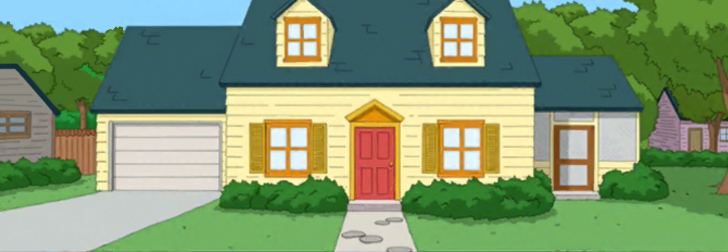
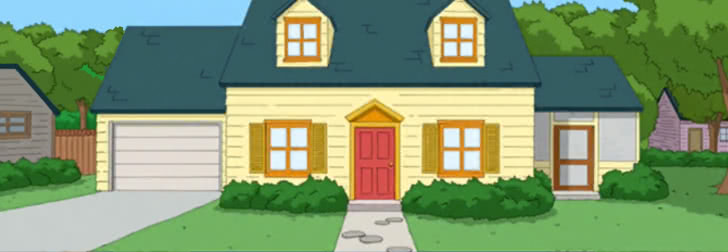
Optimized jpgs, jshint fixies

diff --git a/js/objects/game-ui.js b/js/objects/game-ui.js
@@ -1,4 +1,6 @@
 /*jshint -W041 */
+/*jshint -W083 */
+
 import LU from 'display/layout-utils';
 
 import Globals from 'kernel/globals';
@@ -11,9 +13,7 @@ export default class GameUI {
     this._recipesInfo = params.recipesInfo;
     this._gUI = this._game.add.group();
     this._view.add(this._gUI);
-    this.maxRecipes
     this._scoreTmp = 0;
-
     this.totalRecipesCount = 0;
     this.currentRecipesCount = 0;
 
@@ -78,7 +78,7 @@ export default class GameUI {
     this.uiPanel = imageLoader.sprite(0, 0, 'topBackground');
     // let scaleFactor =  LU.FULL_GAME_WIDTH / this.uiPanel.width;
     this.uiPanel.nativeWidth = this.uiPanel.width;
-    this.uiPanel.width = LU.FULL_GAME_WIDTH
+    this.uiPanel.width = LU.FULL_GAME_WIDTH;
     this._gUI.add(this.uiPanel);
 
 
@@ -108,14 +108,14 @@ export default class GameUI {
     }, 3500, Phaser.Easing.Linear.None, true, 500, -1, false);
 
     this.counter = imageLoader.sprite(0, this.uiPanel.height, 'counter.png');
-    this.counter.height*=0.65
+    this.counter.height*=0.65;
     this.counter.x = LU.FULL_GAME_WIDTH*0.5 - this.counter.width*0.5;
     this._gUI.add(this.counter);
 
 
 
     this.stewie.drink = (glass)=> {
-      this.stewie.frameName = 'stewie_drink.png'
+      this.stewie.frameName = 'stewie_drink.png';
       this.stewie.addChild(glass);
       this._game.tweens.removeFrom(this.stewie);
       this._game.add.tween(this.stewie.scale).to({
@@ -127,7 +127,7 @@ export default class GameUI {
           //  y: this.stewie.y+50,
           alpha: [1, 1, 0],
         }, 1000, Phaser.Easing.Linear.None, true, 0, 0, false);
-      })
+      });
       glass.angle = 95;
       glass.scale.set(0.5);
       glass.y = -70;
@@ -135,7 +135,7 @@ export default class GameUI {
     };
 
     this.louis.drink = (glass)=> {
-      this.louis.frameName = 'lois_drink.png'
+      this.louis.frameName = 'lois_drink.png';
       this.louis.addChild(glass);
 
       this._game.tweens.removeFrom(this.louis);
@@ -148,7 +148,7 @@ export default class GameUI {
           //   y: this.stewie.y+50
           alpha: [1, 1, 0],
         }, 1000, Phaser.Easing.Linear.None, true, 0, 0, false);
-      })
+      });
       glass.angle = 100;
       glass.scale.set(0.7);
       glass.y = -175;
@@ -156,7 +156,7 @@ export default class GameUI {
     };
 
     this.peter.drink = (glass)=> {
-      this.peter.frameName = 'peter_drink.png'
+      this.peter.frameName = 'peter_drink.png';
       this.peter.addChild(glass);
 
       this._game.tweens.removeFrom(this.peter);
@@ -168,7 +168,7 @@ export default class GameUI {
           angle: 60,
           alpha: [1, 1, 0],
         }, 1000, Phaser.Easing.Linear.None, true, 0, 0, false);
-      })
+      });
       glass.angle = 95;
       glass.scale.set(0.8);
       glass.y = -240;
@@ -182,8 +182,8 @@ export default class GameUI {
     const rCountOffsetX = 27;
     const rCountOffsetY = 5;
 
-    let colours = ['#107fff', '#34a316', '#9a22d5', '#cd0110', '#ac6800', '#f64c01']
-    let heroesToDrink = [this.stewie, this.peter, this.louis]
+    let colours = ['#107fff', '#34a316', '#9a22d5', '#cd0110', '#ac6800', '#f64c01'];
+    let heroesToDrink = [this.stewie, this.peter, this.louis];
     for (let i = 0; i < this._recipesInfo.length; i++) {
       let img = imageLoader.sprite(xPos[i], topOffset, `chip_${this._recipesInfo[i].color}_0.png`);
       img.anchor.set(0.5);
@@ -430,7 +430,7 @@ export default class GameUI {
     let counter = imageLoader.sprite(0, uiPanel.height, 'counter.png');
     this._gUI.add(counter);
     this.stewie.drink = (glass)=> {
-      this.stewie.frameName = 'stewie_drink.png'
+      this.stewie.frameName = 'stewie_drink.png';
       this.stewie.addChild(glass);
       this._game.tweens.removeFrom(this.stewie);
       this._game.add.tween(this.stewie.scale).to({
@@ -442,7 +442,7 @@ export default class GameUI {
           //  y: this.stewie.y+50,
           alpha: [1, 1, 0],
         }, 1000, Phaser.Easing.Linear.None, true, 0, 0, false);
-      })
+      });
       glass.angle = 95;
       glass.scale.set(0.5);
       glass.y = -70;
@@ -450,7 +450,7 @@ export default class GameUI {
     };
 
     this.louis.drink = (glass)=> {
-      this.louis.frameName = 'lois_drink.png'
+      this.louis.frameName = 'lois_drink.png';
       this.louis.addChild(glass);
 
       this._game.tweens.removeFrom(this.louis);
@@ -463,7 +463,7 @@ export default class GameUI {
           //   y: this.stewie.y+50
           alpha: [1, 1, 0],
         }, 1000, Phaser.Easing.Linear.None, true, 0, 0, false);
-      })
+      });
       glass.angle = 100;
       glass.scale.set(0.7);
       glass.y = -175;
@@ -471,7 +471,7 @@ export default class GameUI {
     };
 
     this.peter.drink = (glass)=> {
-      this.peter.frameName = 'peter_drink.png'
+      this.peter.frameName = 'peter_drink.png';
       this.peter.addChild(glass);
 
       this._game.tweens.removeFrom(this.peter);
@@ -483,7 +483,7 @@ export default class GameUI {
           angle: 60,
           alpha: [1, 1, 0],
         }, 1000, Phaser.Easing.Linear.None, true, 0, 0, false);
-      })
+      });
       glass.angle = 95;
       glass.scale.set(0.8);
       glass.y = -240;
@@ -498,8 +498,8 @@ export default class GameUI {
     const rCountOffsetX = 27;
     const rCountOffsetY = 5;
 
-    let colours = ['#107fff', '#34a316', '#9a22d5', '#cd0110', '#ac6800', '#f64c01']
-    let heroesToDrink = [this.stewie, this.peter, this.louis]
+    let colours = ['#107fff', '#34a316', '#9a22d5', '#cd0110', '#ac6800', '#f64c01'];
+    let heroesToDrink = [this.stewie, this.peter, this.louis];
     for (let i = 0; i < this._recipesInfo.length; i++) {
       let img = imageLoader.sprite(leftOffset + i * cellW, topOffset, `chip_${this._recipesInfo[i].color}_0.png`);
       img.anchor.set(0.5);
@@ -598,7 +598,7 @@ export default class GameUI {
           this.recipeItems[i].text.visible = false;
           this._game.time.events.add(1000, ()=>{
             this.recipeItems[i].heroes.drink(this.recipeItems[i].img);
-          })
+          });
           this._game.add.tween(this.recipeItems[i].check.scale).to({
             x: [2, 1],
             y: [2, 1]

diff --git a/js/objects/game-cta.js b/js/objects/game-cta.js
@@ -53,7 +53,7 @@ export default class GameCTA {
         let btnText = this._game.add.text(0, 0, 'Play Now!', this.testStyle);
         btnText.anchor.set(0.5);
         let retryBtn = null;
-        let retryText = null
+        let retryText = null;
         if (canRetry) {
           retryBtn = imageLoader.sprite(-125, 230, 'blue_button.png');
           retryBtn.anchor.set(0.5);
@@ -104,7 +104,7 @@ export default class GameCTA {
           this._game.add.tween(logo.scale).to({
             x: [1.1, 1],
             y: [1.1, 1]
-          }, 1500, Phaser.Easing.Linear.None, true, 0, -1, false)
+          }, 1500, Phaser.Easing.Linear.None, true, 0, -1, false);
         });
 
         this._game.add.tween(logo).to({
@@ -120,7 +120,7 @@ export default class GameCTA {
           this._game.add.tween(continueBtn.scale).to({
             x: [0.95, 1, 1.05, 1],
             y: [1.05, 1, 0.95, 1]
-          }, 1500, Phaser.Easing.Linear.None, true, 0, -1, false)
+          }, 1500, Phaser.Easing.Linear.None, true, 0, -1, false);
 
         });
 
@@ -132,7 +132,7 @@ export default class GameCTA {
             this._game.add.tween(retryBtn.scale).to({
               x: [0.95, 1, 1.05, 1],
               y: [1.05, 1, 0.95, 1]
-            }, 1500, Phaser.Easing.Linear.None, true, 0, -1, false)
+            }, 1500, Phaser.Easing.Linear.None, true, 0, -1, false);
           });
         }
 

diff --git a/js/objects/game-view.js b/js/objects/game-view.js
@@ -591,7 +591,7 @@ class ChipView extends Phaser.Group {
       for (let i = 0; i < 5; i++) {
         this.game.time.events.add(i * 200, ()=> {
           let bubble1 = imageLoader.sprite(newPos.x, newPos.y, this._chip.color + '_bub_' + utils.random(1, 2) + '.png');
-          bubble1.scale.set(utils.random(0.8, 1.5))
+          bubble1.scale.set(utils.random(0.8, 1.5));
           this._gameView.gUI.add(bubble1);
           bubble1.anchor.set(0.5);
           bubble1.y -= this._sprite.height * 0.5;
@@ -634,11 +634,11 @@ class ChipView extends Phaser.Group {
     this._game.add.tween(circle.scale).to({
       x: 1.5,
       y: 1.5
-    }, 500, Phaser.Easing.Sinusoidal.InOut, true)
+    }, 500, Phaser.Easing.Sinusoidal.InOut, true);
 
     this._game.add.tween(circle).to({
       alpha: 0
-    }, 500, Phaser.Easing.Sinusoidal.InOut, true)
+    }, 500, Phaser.Easing.Sinusoidal.InOut, true);
 
     this._effectsGroup.add(circle);
     this._game.add.tween(this.scale).to({

diff --git a/js/objects/game-tutorial.js b/js/objects/game-tutorial.js
@@ -229,7 +229,7 @@ export default class GameTutorial {
       this._game.add.tween(finger.scale).to({
         x: [1,0.8,1],
         y: [1,0.8,1],
-      }, 1500, Phaser.Easing.Linear.None, true, 0, -1, false)
+      }, 1500, Phaser.Easing.Linear.None, true, 0, -1, false);
 
       gHelpPanel.add(button);
 

diff --git a/js/states/game-state.js b/js/states/game-state.js
@@ -1,3 +1,4 @@
+/*jshint -W041 */
 import Globals from 'kernel/globals';
 import LU from 'display/layout-utils';
 import GameInit from 'objects/game-init';
